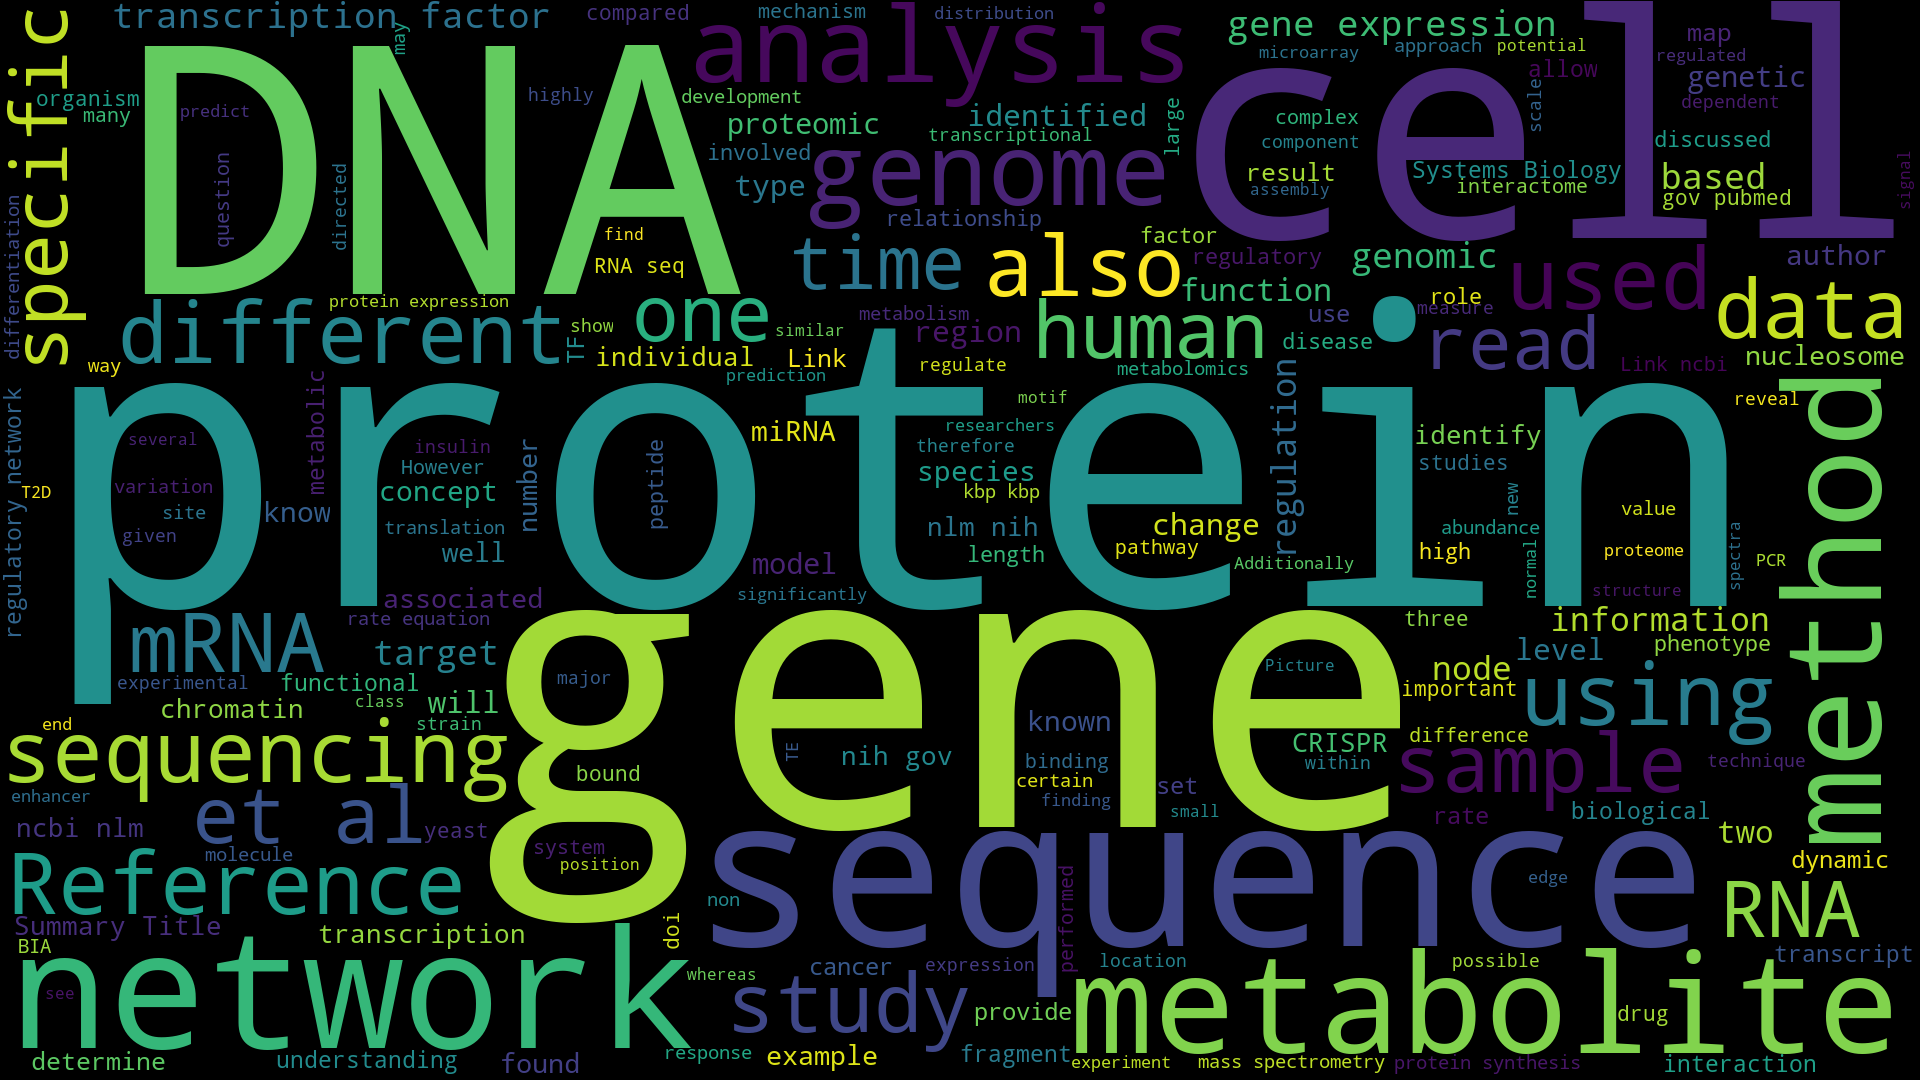
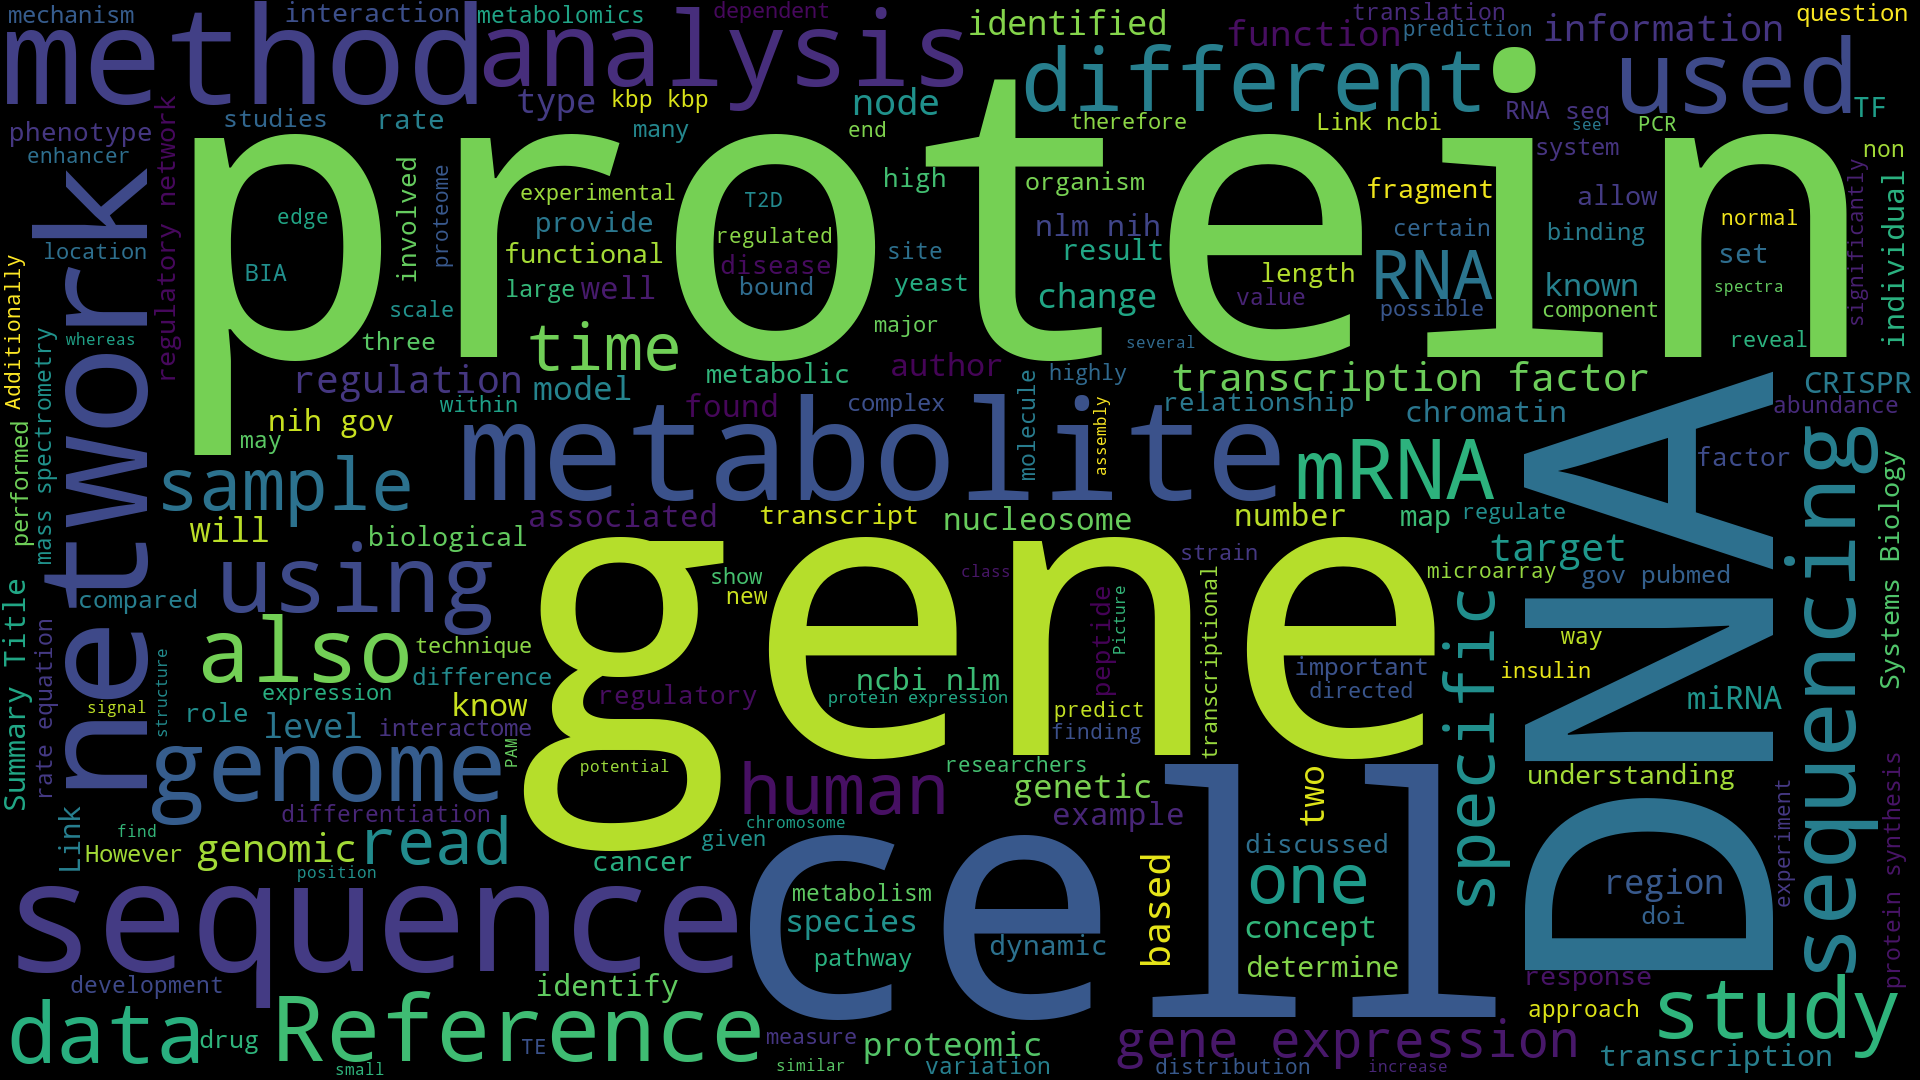
Add manifest and include stopwords

diff --git a/sysbio_wiki_wordcloud/__init__.py b/sysbio_wiki_wordcloud/__init__.py
@@ -5,6 +5,12 @@ from selenium.common.exceptions import NoSuchElementException
 from selenium.webdriver import Chrome
 from selenium.webdriver.remote.webdriver import WebDriver
 from wordcloud import WordCloud
+import os
+
+from wordcloud import STOPWORDS
+
+STOPWORDS |= set([x.strip() for x in open(
+    os.path.join(os.path.dirname(__file__), 'stopwords')).read().split('\n')])
 
 __all__ = ['save_word_cloud']
 
@@ -36,7 +42,7 @@ def save_word_cloud(name, width: int = 1920, height: int = 1080) -> None:
 
         text = ' '.join(get_text_from_pages(driver))
 
-        wordcloud = WordCloud(width=width, height=height).generate(text)
+        wordcloud = WordCloud(width=width, height=height, stopwords=STOPWORDS).generate(text)
 
         image = wordcloud.to_image()
 

diff --git a/setup.py b/setup.py
@@ -1,4 +1,4 @@
-from setuptools import setup, find_packages
+from setuptools import find_packages, setup
 
 setup(
     name='sysbio_wiki_wordcloud',
@@ -16,5 +16,10 @@ setup(
         'License :: OSI Approved :: MIT License',
         'Programming Language :: Python :: 3.6',
     ],
-    packages=find_packages()
+    packages=find_packages(),
+    include_package_data=True,
+    package_data={
+        '': ['*.txt', '*.md'],
+        'sysbio_wiki_wordcloud': ['stopwords']
+    }
 )
